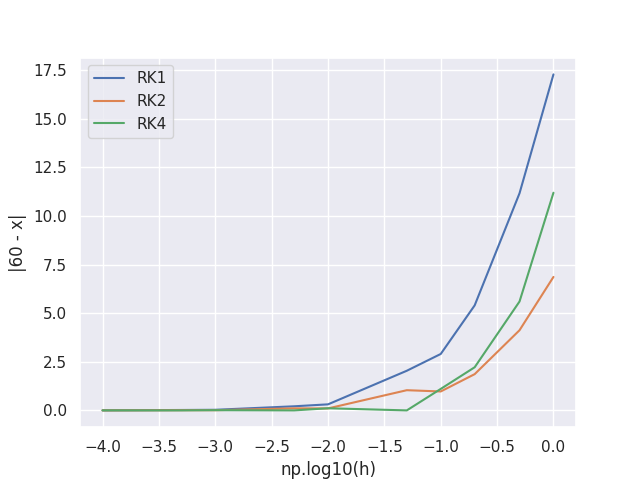
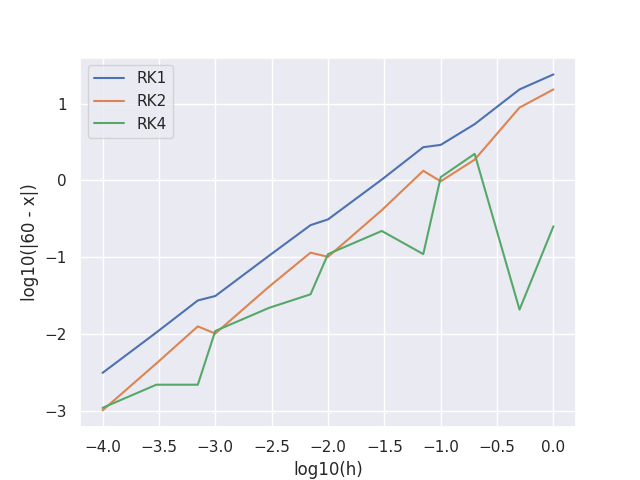
add : 効率的なRK4

diff --git a/ode_pde/runge_kutta.py b/ode_pde/runge_kutta.py
@@ -4,7 +4,7 @@ import seaborn as sns
 
 
 def f(x, t):
-    res = x + (x ** 2 + t ** 2) ** 0.5
+    res = x + np.sqrt(x ** 2 + t ** 2)
     res = res / t
     return res
 
@@ -12,7 +12,7 @@ def f(x, t):
 def runge_kutta_one(dh, t_end):
     t = 1
     x = 0
-    while t <= t_end:
+    while t < t_end:
         x = x + dh * f(x, t)
         t += dh
     return x
@@ -21,7 +21,7 @@ def runge_kutta_one(dh, t_end):
 def runge_kutta_two(dh, t_end):
     t = 1
     x = 0
-    while t <= t_end:
+    while t < t_end:
         k_one = dh * f(x, t)
         # Heun法を採用
         k_two = dh * f(x + k_one / 2, t + dh / 2)
@@ -33,12 +33,29 @@ def runge_kutta_two(dh, t_end):
 def runge_kutta_four(dh, t_end):
     t = 1
     x = 0
-    while t <= t_end:
+    while t < t_end:
         k_one = dh * f(x, t)
         k_two = dh * f(x + k_one / 2, t + dh / 2)
         k_three = dh * f(x + k_two / 2, t + dh / 2)
         k_four = dh * f(x + k_three, t + dh)
         x = x + k_one / 6 + k_two / 3 + k_three / 3 + k_four / 6
+        t += dh
+    return x
+
+
+def runge_kutta_four_efficient(dh, t_end):
+    t = 1
+    x = 0
+    while t < t_end:
+        x_cur = x
+        k = dh * f(x, t)
+        x += k / 6
+        k = dh * f(x_cur + k / 2, t + dh / 2)
+        x += k / 3
+        k = dh * f(x_cur + k / 2, t + dh / 2)
+        x += k / 3
+        k = dh * f(x_cur + k, t + dh)
+        x += k / 6
         t += dh
     return x
 
@@ -51,17 +68,31 @@ def plot_runge_kutta():
     two_ls = []
     four_ls = []
     ans = 60
-    dh_ls = [0.0001, 0.0005, 0.001, 0.005, 0.01, 0.05, 0.1, 0.2, 0.5, 1]
+    dh_ls = [
+        0.0001,
+        0.0003,
+        0.0007,
+        0.001,
+        0.003,
+        0.007,
+        0.01,
+        0.03,
+        0.07,
+        0.1,
+        0.2,
+        0.5,
+        1,
+    ]
     for dh in dh_ls:
         one_ls.append(np.fabs(ans - runge_kutta_one(dh, tend)))
         two_ls.append(np.fabs(ans - runge_kutta_two(dh, tend)))
-        four_ls.append(np.fabs(ans - runge_kutta_four(dh, tend)))
+        four_ls.append(np.fabs(ans - runge_kutta_four_efficient(dh, tend)))
     log_dh = np.log10(dh_ls)
-    plt.plot(log_dh, one_ls, label="RK1")
-    plt.plot(log_dh, two_ls, label="RK2")
-    plt.plot(log_dh, four_ls, label="RK4")
-    plt.xlabel("np.log10(h)")
-    plt.ylabel("|60 - x|")
+    plt.plot(log_dh, np.log10(one_ls), label="RK1")
+    plt.plot(log_dh, np.log10(two_ls), label="RK2")
+    plt.plot(log_dh, np.log10(four_ls), label="RK4")
+    plt.xlabel("log10(h)")
+    plt.ylabel("log10(|60 - x|)")
     plt.legend()
     plt.savefig("runge_kutta_error.png")
 
